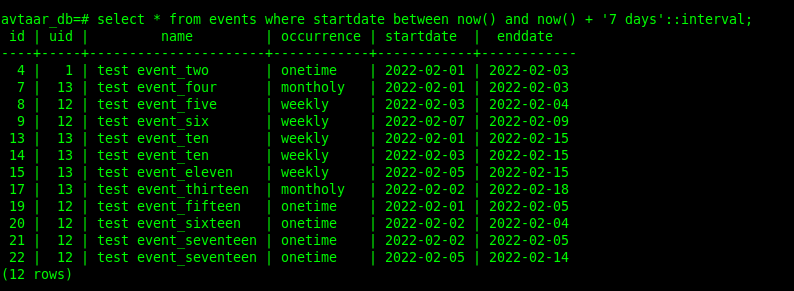
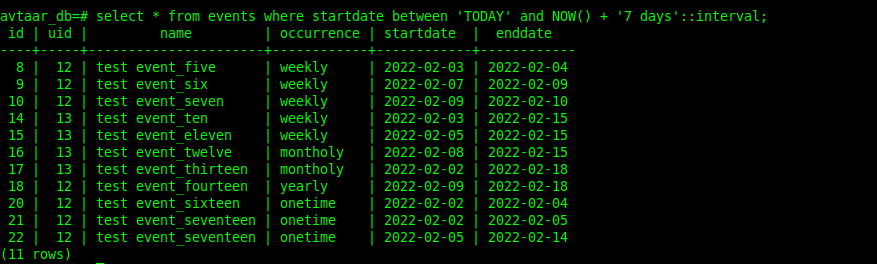
updated query to fetch last 7 days events.

Changed region(s): [[0.0, 0.0303, 0.937, 1.0]]

diff --git a/README.md b/README.md
@@ -49,7 +49,7 @@
 
 - Query to get all events for the next 7 days.
 
-> select * from events where startdate between now() and now() + '7 days'::interval;
+> select * from events where startdate between 'TODAY' and now() + '7 days'::interval;
 ![screenshot four](./screenshot/screenshot_four.png)
 
 ### What did I learned in this assignment
